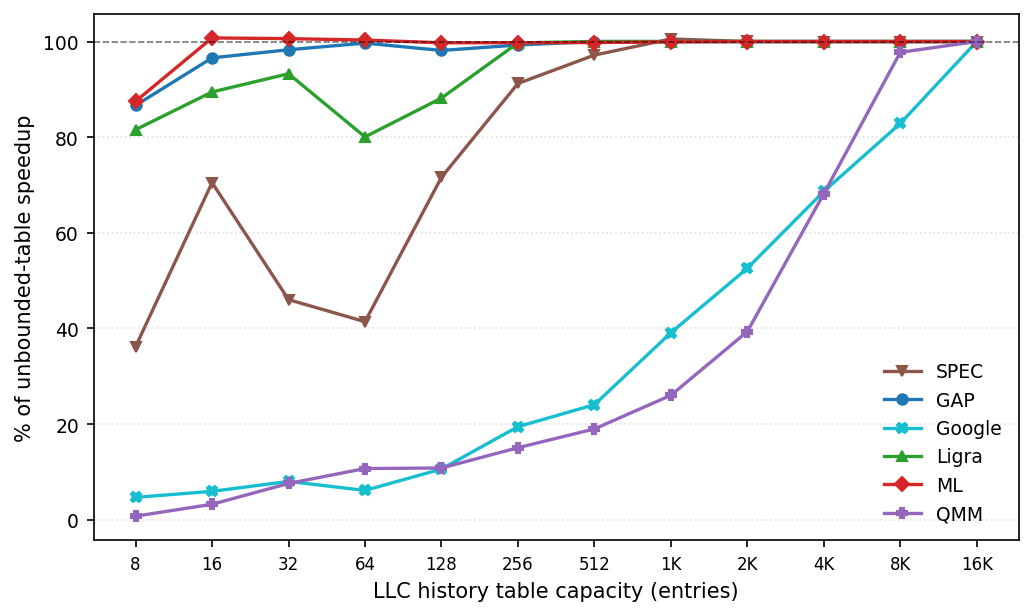
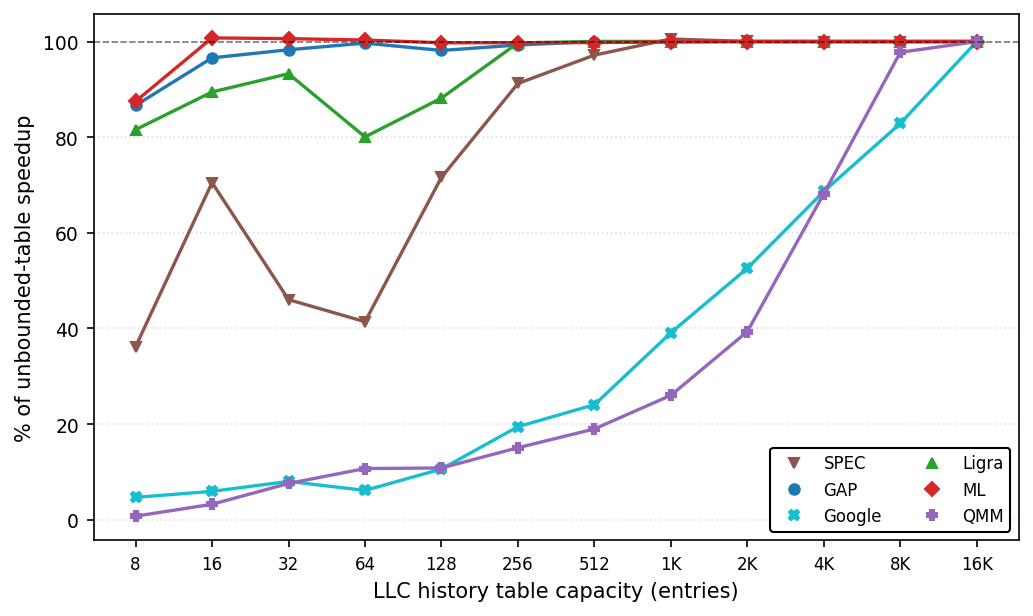
paper: polish Figure 2/3 layout, legends, and best-threshold callout
- Figure 2 and Figure 3 now render side by side (Fig 2 left column,
  Fig 3 right column) at the top of the same page, moved earlier in
  the source so LaTeX has room to place the figure* there instead of
  spilling to the next page.
- Matched height between the two figures (Figure 2's figsize reduced
  from 5.2 to 4.2 to match Figure 3).
- Matched legend orientation (both 2-column, boxed) and icon style
  (both marker-only, no connecting line through the legend swatch --
  Figure 3 now uses explicit Line2D legend handles for this rather
  than reusing the plotted line's own style).
- Figure 2: highlighted theta_doa=16 as the best universal threshold
  (vertical guide line + label), since it's the threshold at which
  every suite's own worst-case % of peak is highest -- matches the
  claim already made in the prose.

Changed region(s): [[0.7435, 0.586, 0.9913, 0.8636]]

diff --git a/scripts/analysis/plot_lru_live_threshold_normalized_duel.py b/scripts/analysis/plot_lru_live_threshold_normalized_duel.py
@@ -17,6 +17,7 @@ from pathlib import Path
 import matplotlib
 matplotlib.use("Agg")
 import matplotlib.pyplot as plt
+from matplotlib.patches import ConnectionPatch
 
 ROOT = Path(__file__).resolve().parents[2]
 sys.path.insert(0, str(Path(__file__).parent))
@@ -56,20 +57,24 @@ def get_ipc(path):
     return None
 
 
-# Break the y-axis inside the empty band between the two panels. No suite has
-# a normalised value between GAP_LOW and GAP_HIGH at any theta, so nothing
-# real is hidden by the break itself. GAP_HIGH must stay below the lowest
-# real point above the gap (SPEC at theta=2, 24.1%). BOTTOM_MIN is capped at
-# -50 as requested; this does clip Google's most extreme points (-70.0% at
-# theta=2, -54.2% at theta=4) at the bottom frame edge.
+# Break the y-axis across the whole empty band between the two panels
+# (-50 to 20): no suite has a normalised value in that range at any theta,
+# so nothing real is hidden. Below -50 the bottom panel continues so
+# Google's real data (down to -70.0% at theta=2) still renders in full.
 GAP_HIGH = 20
-GAP_LOW = 15
-BOTTOM_MIN = -50
+GAP_LOW = -50
+BOTTOM_MIN = -73
+
+
+# theta=16 is the best universal compromise across suites: it is the
+# threshold at which every suite's worst-case (min over suites) % of peak is
+# highest (66.1%, vs. e.g. 61.9% at theta=30 or 36.4% at theta=8).
+BEST_OVERALL_THD = 16
 
 
 def main():
     fig, (ax_top, ax_bot) = plt.subplots(
-        2, 1, sharex=True, figsize=(7, 5.2),
+        2, 1, sharex=True, figsize=(7, 4.2),
         gridspec_kw={"height_ratios": [3, 1.4], "hspace": 0.08})
     report = {}
 
@@ -121,14 +126,38 @@ def main():
         ys = [vals[thd] / peak * 100.0 for thd in THRESHOLDS if thd in vals]
 
         # Segments that cross the empty gap between the two panels are drawn
-        # dashed (on both axes, naturally clipped to each one's ylim); segments
-        # that stay entirely within one panel's range are solid.
+        # dashed: the partial segment within each panel (up to where it
+        # crosses that panel's own edge), plus a ConnectionPatch bridging the
+        # two exit/entry points through the gap itself, so the dashed line
+        # visibly spans the break rather than stopping at one panel's edge.
+        # Segments that stay entirely within one panel's range are solid.
         for i in range(len(xs) - 1):
-            x_seg, y_seg = xs[i:i + 2], ys[i:i + 2]
-            crossing = (min(y_seg) <= GAP_LOW) and (max(y_seg) >= GAP_HIGH)
-            style = "--" if crossing else "-"
-            for ax in (ax_top, ax_bot):
-                ax.plot(x_seg, y_seg, color=COLORS[suite], linestyle=style, linewidth=1.6)
+            (x1, y1), (x2, y2) = (xs[i], ys[i]), (xs[i + 1], ys[i + 1])
+            crossing = (min(y1, y2) <= GAP_LOW) and (max(y1, y2) >= GAP_HIGH)
+            if not crossing:
+                for ax in (ax_top, ax_bot):
+                    ax.plot([x1, x2], [y1, y2], color=COLORS[suite], linewidth=1.6)
+                continue
+
+            # Which endpoint is on top, which is on the bottom.
+            if y1 >= y2:
+                (x_top_pt, y_top_pt), (x_bot_pt, y_bot_pt) = (x1, y1), (x2, y2)
+            else:
+                (x_top_pt, y_top_pt), (x_bot_pt, y_bot_pt) = (x2, y2), (x1, y1)
+
+            frac_top = (y_top_pt - GAP_HIGH) / (y_top_pt - y_bot_pt)
+            x_at_top_edge = x_top_pt + (x_bot_pt - x_top_pt) * frac_top
+            frac_bot = (y_top_pt - GAP_LOW) / (y_top_pt - y_bot_pt)
+            x_at_bot_edge = x_top_pt + (x_bot_pt - x_top_pt) * frac_bot
+
+            ax_top.plot([x_top_pt, x_at_top_edge], [y_top_pt, GAP_HIGH],
+                        color=COLORS[suite], linestyle="--", linewidth=1.6)
+            ax_bot.plot([x_at_bot_edge, x_bot_pt], [GAP_LOW, y_bot_pt],
+                        color=COLORS[suite], linestyle="--", linewidth=1.6)
+            fig.add_artist(ConnectionPatch(
+                xyA=(x_at_top_edge, GAP_HIGH), coordsA=ax_top.transData,
+                xyB=(x_at_bot_edge, GAP_LOW), coordsB=ax_bot.transData,
+                color=COLORS[suite], linestyle="--", linewidth=1.6))
         for ax in (ax_top, ax_bot):
             ax.plot(xs, ys, color=COLORS[suite], marker=MARKERS[suite],
                     markersize=5, linewidth=0, label=label)
@@ -139,12 +168,17 @@ def main():
         ax.set_xticks(THRESHOLDS)
         ax.tick_params(labelsize=9)
         ax.grid(axis="y", linestyle=":", alpha=0.4)
-    ax_bot.set_yticks([0, -25, -50])
+    ax_bot.set_yticks([-50, -60, -70])
     ax_top.spines["bottom"].set_visible(False)
     ax_bot.spines["top"].set_visible(False)
     ax_top.tick_params(labeltop=False, bottom=False)
     ax_bot.xaxis.tick_bottom()
     ax_top.axhline(100, color="black", linestyle="--", linewidth=0.8, alpha=0.5)
+    for ax in (ax_top, ax_bot):
+        ax.axvline(BEST_OVERALL_THD, color="black", linestyle=":", linewidth=1.2, alpha=0.7, zorder=0)
+    ax_top.annotate(r"best overall: $\theta_{\mathrm{doa}}=16$",
+                     xy=(BEST_OVERALL_THD, 102), xytext=(BEST_OVERALL_THD + 0.6, 40),
+                     fontsize=7.5, ha="left", va="top")
 
     d = 0.015
     kwargs = dict(transform=ax_top.transAxes, color="black", clip_on=False, linewidth=1)
@@ -156,11 +190,10 @@ def main():
 
     ax_bot.set_xlabel(r"DoA threshold $\theta_{\mathrm{doa}}$", fontsize=10)
     fig.text(0.02, 0.55, "% of peak speedup", va="center", rotation="vertical", fontsize=10)
-    handles, labels = ax_top.get_legend_handles_labels()
-    fig.legend(handles, labels, frameon=False, fontsize=9, ncol=6,
-               loc="lower center", bbox_to_anchor=(0.53, -0.02))
+    ax_bot.legend(frameon=True, framealpha=1, edgecolor="black",
+                  fontsize=8, ncol=2, loc="lower right")
 
-    fig.tight_layout(rect=(0.03, 0.06, 1, 1))
+    fig.tight_layout(rect=(0.03, 0, 1, 1))
     out = ROOT / "results" / "plots" / "lru_live_threshold_normalized_duel.png"
     fig.savefig(out, dpi=150, bbox_inches="tight")
     print("wrote", out)

diff --git a/results/paper/main.tex b/results/paper/main.tex
@@ -689,6 +689,33 @@ spread. The policies frequently \emph{disagree}: \srrip-Live wins decisively on
 kernels and \texttt{mcf} where \srrip-Live is slightly negative. No single policy
 dominates per-workload, motivating the suite-level threshold optimisation.
 
+\begin{figure*}[t!]
+\centering
+\begin{minipage}[t]{0.48\textwidth}
+  \centering
+  \includegraphics[width=\linewidth]{../plots/lru_live_threshold_normalized_duel.png}
+  \caption{DoA threshold sensitivity for \lru-Live with set dueling: geomean
+    IPC speedup vs.\ \lru per suite, normalised to each suite's own peak
+    across the sweep. Y-axis is broken (dashed = crosses the break) to show
+    Google's and SPEC's low-$\theta$ values without compressing the rest. GMS
+    omitted (crosses zero; see text).}
+  \label{fig:doa_thd}
+\end{minipage}
+\hfill
+\begin{minipage}[t]{0.48\textwidth}
+  \centering
+  \includegraphics[width=\linewidth]{../plots/lru_live_size_sensitivity.png}
+  \caption{\llc history table size sensitivity for \lru-Live, at each suite's own
+    optimal $\theta_{\mathrm{doa}}$ (GAP=2, Ligra=4, QMM=8, ML/Google/SPEC=30).
+    Y-axis: each suite's geomean IPC speedup vs.\ plain \lru at that capacity,
+    normalised to its own speedup at 16{,}384 entries (100\% = the unbounded
+    ceiling). GMS is omitted: its guidance contribution is marginal even at
+    its own best threshold ($+0.23\%$), too small to say anything meaningful
+    about capacity sensitivity.}
+  \label{fig:size_sensitivity}
+\end{minipage}
+\end{figure*}
+
 \subsection{Set dueling}
 \label{sec:setdueling}
 
@@ -741,41 +768,8 @@ uniformly.
 \subsection{Threshold sensitivity}
 \label{sec:thd_sens}
 
-\begin{figure}[t!]
-\centering
-\includegraphics[width=\linewidth]{../plots/lru_live_threshold_normalized_duel.png}
-\caption{Per-suite DoA threshold sensitivity for \lru-Live \emph{with set
-  dueling} (latency metric, cfgA=2n3 vs.\ cfgB=lru): each suite's geomean IPC
-  speedup over plain \lru as a function of $\theta_{\mathrm{doa}}$
-  (\llc-only guidance, mode-5 falling-weight scoring, unbounded PC-keyed
-  history table), normalised to its own peak value across the sweep (100\% =
-  that suite's best threshold). Y-axis is broken (dashed segments cross the
-  break) to show Google's and SPEC's negative/near-zero low-$\theta$ values
-  without compressing the other four suites; the axis is cut at $-50\%$, so
-  Google's most extreme point ($-70.0\%$ at $\theta_{\mathrm{doa}}=2$) is
-  off-frame and indicated only by its dashed approach. Each curve is over
-  the suite's full trace set; SPEC is SimPoint-weighted. GMS is omitted: it
-  crosses from negative to positive across the sweep, so normalising by its
-  (small, positive) peak produces extreme, uninformative percentages; its
-  absolute behaviour is discussed in the text below.}
-\label{fig:doa_thd}
-\end{figure}
-
 \subsection{History table size sensitivity}
 \label{sec:llcsize}
-
-\begin{figure}[t!]
-\centering
-\includegraphics[width=\linewidth]{../plots/lru_live_size_sensitivity.png}
-\caption{\llc history table size sensitivity for \lru-Live, at each suite's own
-  optimal $\theta_{\mathrm{doa}}$ (GAP=2, Ligra=4, QMM=8, ML/Google/SPEC=30).
-  Y-axis: each suite's geomean IPC speedup vs.\ plain \lru at that capacity,
-  normalised to its own speedup at 16{,}384 entries (100\% = the unbounded
-  ceiling). GMS is omitted: its guidance contribution is marginal even at
-  its own best threshold ($+0.23\%$), too small to say anything meaningful
-  about capacity sensitivity.}
-\label{fig:size_sensitivity}
-\end{figure}
 
 Figure~\ref{fig:doa_thd} sweeps the DoA threshold $\theta_{\mathrm{doa}}$ for
 \lru-Live \emph{with set dueling} on every suite, each curve normalised to

diff --git a/scripts/analysis/plot_lru_live_size_sensitivity.py b/scripts/analysis/plot_lru_live_size_sensitivity.py
@@ -21,6 +21,7 @@ from pathlib import Path
 import matplotlib
 matplotlib.use("Agg")
 import matplotlib.pyplot as plt
+from matplotlib.lines import Line2D
 
 ROOT = Path(__file__).resolve().parents[2]
 sys.path.insert(0, str(Path(__file__).parent))
@@ -50,6 +51,7 @@ def get_ipc(path):
 
 def main():
     fig, ax = plt.subplots(figsize=(7, 4.2))
+    plotted = []
 
     for suite, label in SUITES.items():
         base_dir = ROOT / "results" / "baselines" / "lru" / suite
@@ -85,7 +87,8 @@ def main():
         xs = [CAPS.index(cap) for cap in CAPS if cap in cap_pct]
         ys = [cap_pct[cap] / ceiling * 100.0 for cap in CAPS if cap in cap_pct]
         ax.plot(xs, ys, color=COLORS[suite], marker=MARKERS[suite],
-                markersize=5, linewidth=1.6, label=label)
+                markersize=5, linewidth=1.6)
+        plotted.append((suite, label))
 
     ax.axhline(100, color="black", linestyle="--", linewidth=0.8, alpha=0.5)
     ax.set_xlabel("LLC history table capacity (entries)", fontsize=10)
@@ -93,7 +96,13 @@ def main():
     ax.set_xticks(range(len(CAPS)))
     ax.set_xticklabels(["8", "16", "32", "64", "128", "256", "512", "1K", "2K", "4K", "8K", "16K"], fontsize=8)
     ax.tick_params(axis="y", labelsize=9)
-    ax.legend(frameon=False, fontsize=9, loc="lower right")
+
+    # Marker-only legend icons (no line through them), matching Figure 2's style.
+    handles = [Line2D([0], [0], color=COLORS[suite], marker=MARKERS[suite],
+                      markersize=5, linewidth=0, label=label)
+               for suite, label in plotted]
+    ax.legend(handles=handles, frameon=True, framealpha=1, edgecolor="black",
+              fontsize=8, ncol=2, loc="lower right")
     ax.grid(axis="y", linestyle=":", alpha=0.4)
 
     fig.tight_layout()
